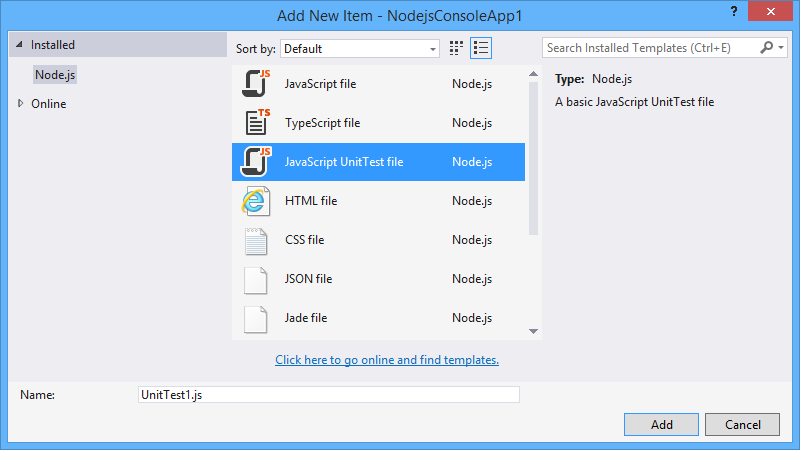
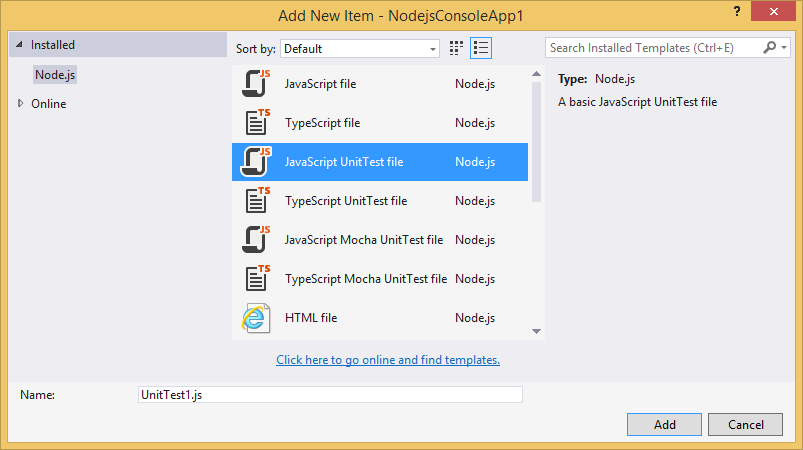
1042 Documentation for using Test Explorer with mocha

diff --git a/Nodejs/Docs/User/UnitTests.md b/Nodejs/Docs/User/UnitTests.md
@@ -8,11 +8,51 @@ Node.js uses unit tests extensively to validate scenarios while designing a prog
 Discovering Tests
 =================
 
-NTVS will discover tests using the standard assert module.
+### Discovering Mocha Tests
 
-To ensure your test can be found and run, follow these rules:
+To ensure your mocha test(s) can be found and run, follow these rules:
 
-* Set the Test Framework property for the JavaScript or TypeScript file to "Default". Note that this is the only value that is supported at this time.
+* Install mocha locally. NTVS will **not** use a global mocha installation.
+
+* Set the Test Framework property for the JavaScript or TypeScript file to "Mocha".
+
+* Define your test functions using `describe` and `it`.
+
+Blank tests that follow these rules can be added by selecting Project, Add New Item (<kbd>CTRL</kbd>+<kbd>SHIFT</kbd>+<kbd>A</kbd>) and choosing "JavaScript Mocha UnitTest file".
+
+![Add New Unit Test Item](Images/UnitTestsAddNewItemMocha.png)
+
+This will add a new file containing a mocha unit test.
+
+```javascript
+var assert = require('assert');
+
+describe('Test Suite 1', function() {
+    it('Test 1', function() {
+        assert.ok(true, "This shouldn't fail");
+    })
+
+    it('Test 2', function() {
+        assert.ok(1 === 1, "This shouldn't fail");
+        assert.ok(false, "This should fail");
+    })
+})
+```
+
+The Test Framework property is automatically set to "Mocha".
+
+![Test Framework](Images/UnitTestsFrameworkMocha.png)
+
+
+Hit Build (<kbd>CTRL</kbd>+<kbd>SHIFT</kbd>+<kbd>B</kbd>), and the tests will be discovered and displayed in the Test Explorer. (If you do not see the Test Explorer window, click the Test menu, then Windows and Test Explorer.)
+
+![Test Discovery](Images/UnitTestsDiscoveryMocha.png)
+
+### Discovering Exported Tests
+
+To ensure your exported test(s) can be found and run, follow these rules:
+
+* Set the Test Framework property for the JavaScript or TypeScript file to "ExportRunner".
 
 * Export your test functions
 
@@ -23,7 +63,6 @@ Blank tests that follow these rules can be added by selecting Project, Add New I
 This will add a new file containing a basic unit test.
 
 ```javascript
-// UnitTest1.js 
 var assert = require('assert');
 
 exports['Test 1'] = function (test) {
@@ -36,14 +75,16 @@ exports['Test 2'] = function (test) {
 }
 ```
 
-The Test Framework property is automatically set to "Default".
+The Test Framework property is automatically set to "ExportRunner".
 
-![Test Framework](Images/UnitTestsFramework.png)
+![Test Framework](Images/UnitTestsFrameworkExportRunner.png)
 
 
 Hit Build (<kbd>CTRL</kbd>+<kbd>SHIFT</kbd>+<kbd>B</kbd>), and the tests will be discovered and displayed in the Test Explorer. (If you do not see the Test Explorer window, click the Test menu, then Windows and Test Explorer.)
 
 ![Test Discovery](Images/UnitTestsDiscovery.png)
+
+### Test Explorer Groups/Filters
 
 As you add more tests to your project, you may prefer to group or filter the tests that are displayed. The "Group By" menu on the toolbar will allow you to collect your tests into different groups, and the search toolbox will filter by matching names. Double-clicking a test will open the source file containing the test implementation.
 
@@ -66,8 +107,23 @@ Tests that fail are shown with a red cross.
 
 ![Test Output](Images/UnitTestsRunFailedOutput.png)
 
-Known Issues
-============
+Test Framework Extensibility
+============================
 
-* Debugging tests is currently not supported -- breakpoints won't get hit.
-* At this time, mocha, jasmine and other test frameworks are not supported.
+NTVS can be extended to support additional test frameworks by implementing the discovery and execution logic using JavaScript.
+
+In the following location:
+`<VisualStudioFolder>\Common7\IDE\Extensions\Microsoft\Node.js Tools for Visual Studio\1.0\TestFrameworks`
+
+You'll see folders for ExportRunner and Mocha.
+
+Under each folder, a JavaScript file named after the folder contains 2 exported functions:
+
+* `find_tests`
+* `run_tests`
+
+See the implementation of ExportRunner and Mocha for examples of `find_tests` and `run_tests` implementations.
+
+In your NTVS project, make sure to set the TestFramework property on your test file(s) to match the name of the subfolder under TestFrameworks.
+
+If you implement support for other test frameworks and wish to contribute them, please let us know!
